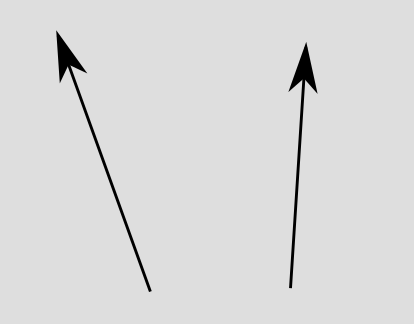
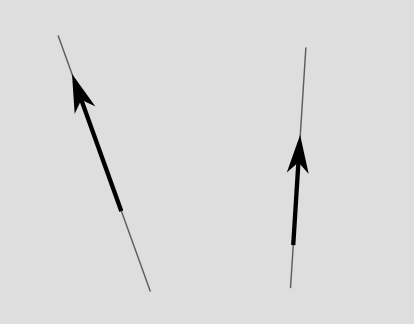
vectors

diff --git a/spacetime_diagrams/index.md b/spacetime_diagrams/index.md
@@ -23,28 +23,36 @@ who considers herself to be at rest while the scenery rolls by.
 In relativity, we usually abstract out some of the artistic details and make a more pared-down
 version of these diagrams, which looks like this.
 
-![same diagram, simplified](vectors.png)
+![same diagram, simplified](world-lines.png)
 
-We just show the motion of each object as an arrow. Depending on what frame of
-reference we arbitrarily choose for the diagram, we can make one arrow or the other be
+We just show the motion of each object as a line or a curve. Depending on what frame of
+reference we arbitrarily choose for the diagram, we can make one line or the other be
 vertical (showing the object at rest), or we can make both of them slant. It doesn't
 matter which frame of reference we choose. All we can really say in an absolute sense
 is that each thing *is* moving -- relative to the other. That's why it's called
 relativity.
 
-Arrows like these are called vectors, and the type of vector that represents how an
-object gets one place and time to another is called a displacement vector. 
+The lines are called "world-lines." The somewhat odd terminology comes from an awkward
+translation of a German phrase that was intended to be something more like "line through
+the world," or "line through all of history and existence."
 
 The gray rectangle is referred to as "spacetime." It's a sort of stage, or a piece of graph
 paper, that represents both time (vertically) and space (horizontally).
 Any point on the rectangle represents a where-and-when, such as the battle of Gettysburg.
 We refer to such a point as an "event," even if nothing special actually happened there.
+
 If you've taken
 a physics class in high school or college, you've probably heard of vectors in three-dimensional
 space. In relativity, when we say "vector" we mean a vector in spacetime, which has "3+1 dimensions,"
 i.e., three dimensions of space and one dimension of time.
 In order to depict things on a page or screen, we usually omit two of the space dimensions, which makes
-it a depiction in 1+1 dimensions.
+it a depiction in 1+1 dimensions. As shown in the figure below, one way of defining a vector is to single out a certain piece of
+a world-line, with a definite start and end, and an arrowhead that gives it a direction. This
+type of vector is called a spacetime displacement vector. Often we want to use this kind of
+vector to describe the fact that an object moved in a certain way so that it existed at a certain
+event and later existed at some other event.
+
+![vectors as pieces of world-lines](vectors.png)
 
 If we take the picture and
 fill it back in (below) with trees and houses and atoms and religious bigots, it tends to evoke

diff --git a/index.md b/index.md
@@ -14,3 +14,6 @@ blog posts
 [Do we all move through spacetime at the speed of light?](moving_through_spacetime_at_c) - 2022 Dec. 18
 
 [Why can't you go faster than the speed of light? -- An explanation without equations or fallacies.](faster_than_light) - 2022 Dec. 31
+
+[Spacetime diagrams](spacetime_diagrams) - 2023 Jan. 3
+
